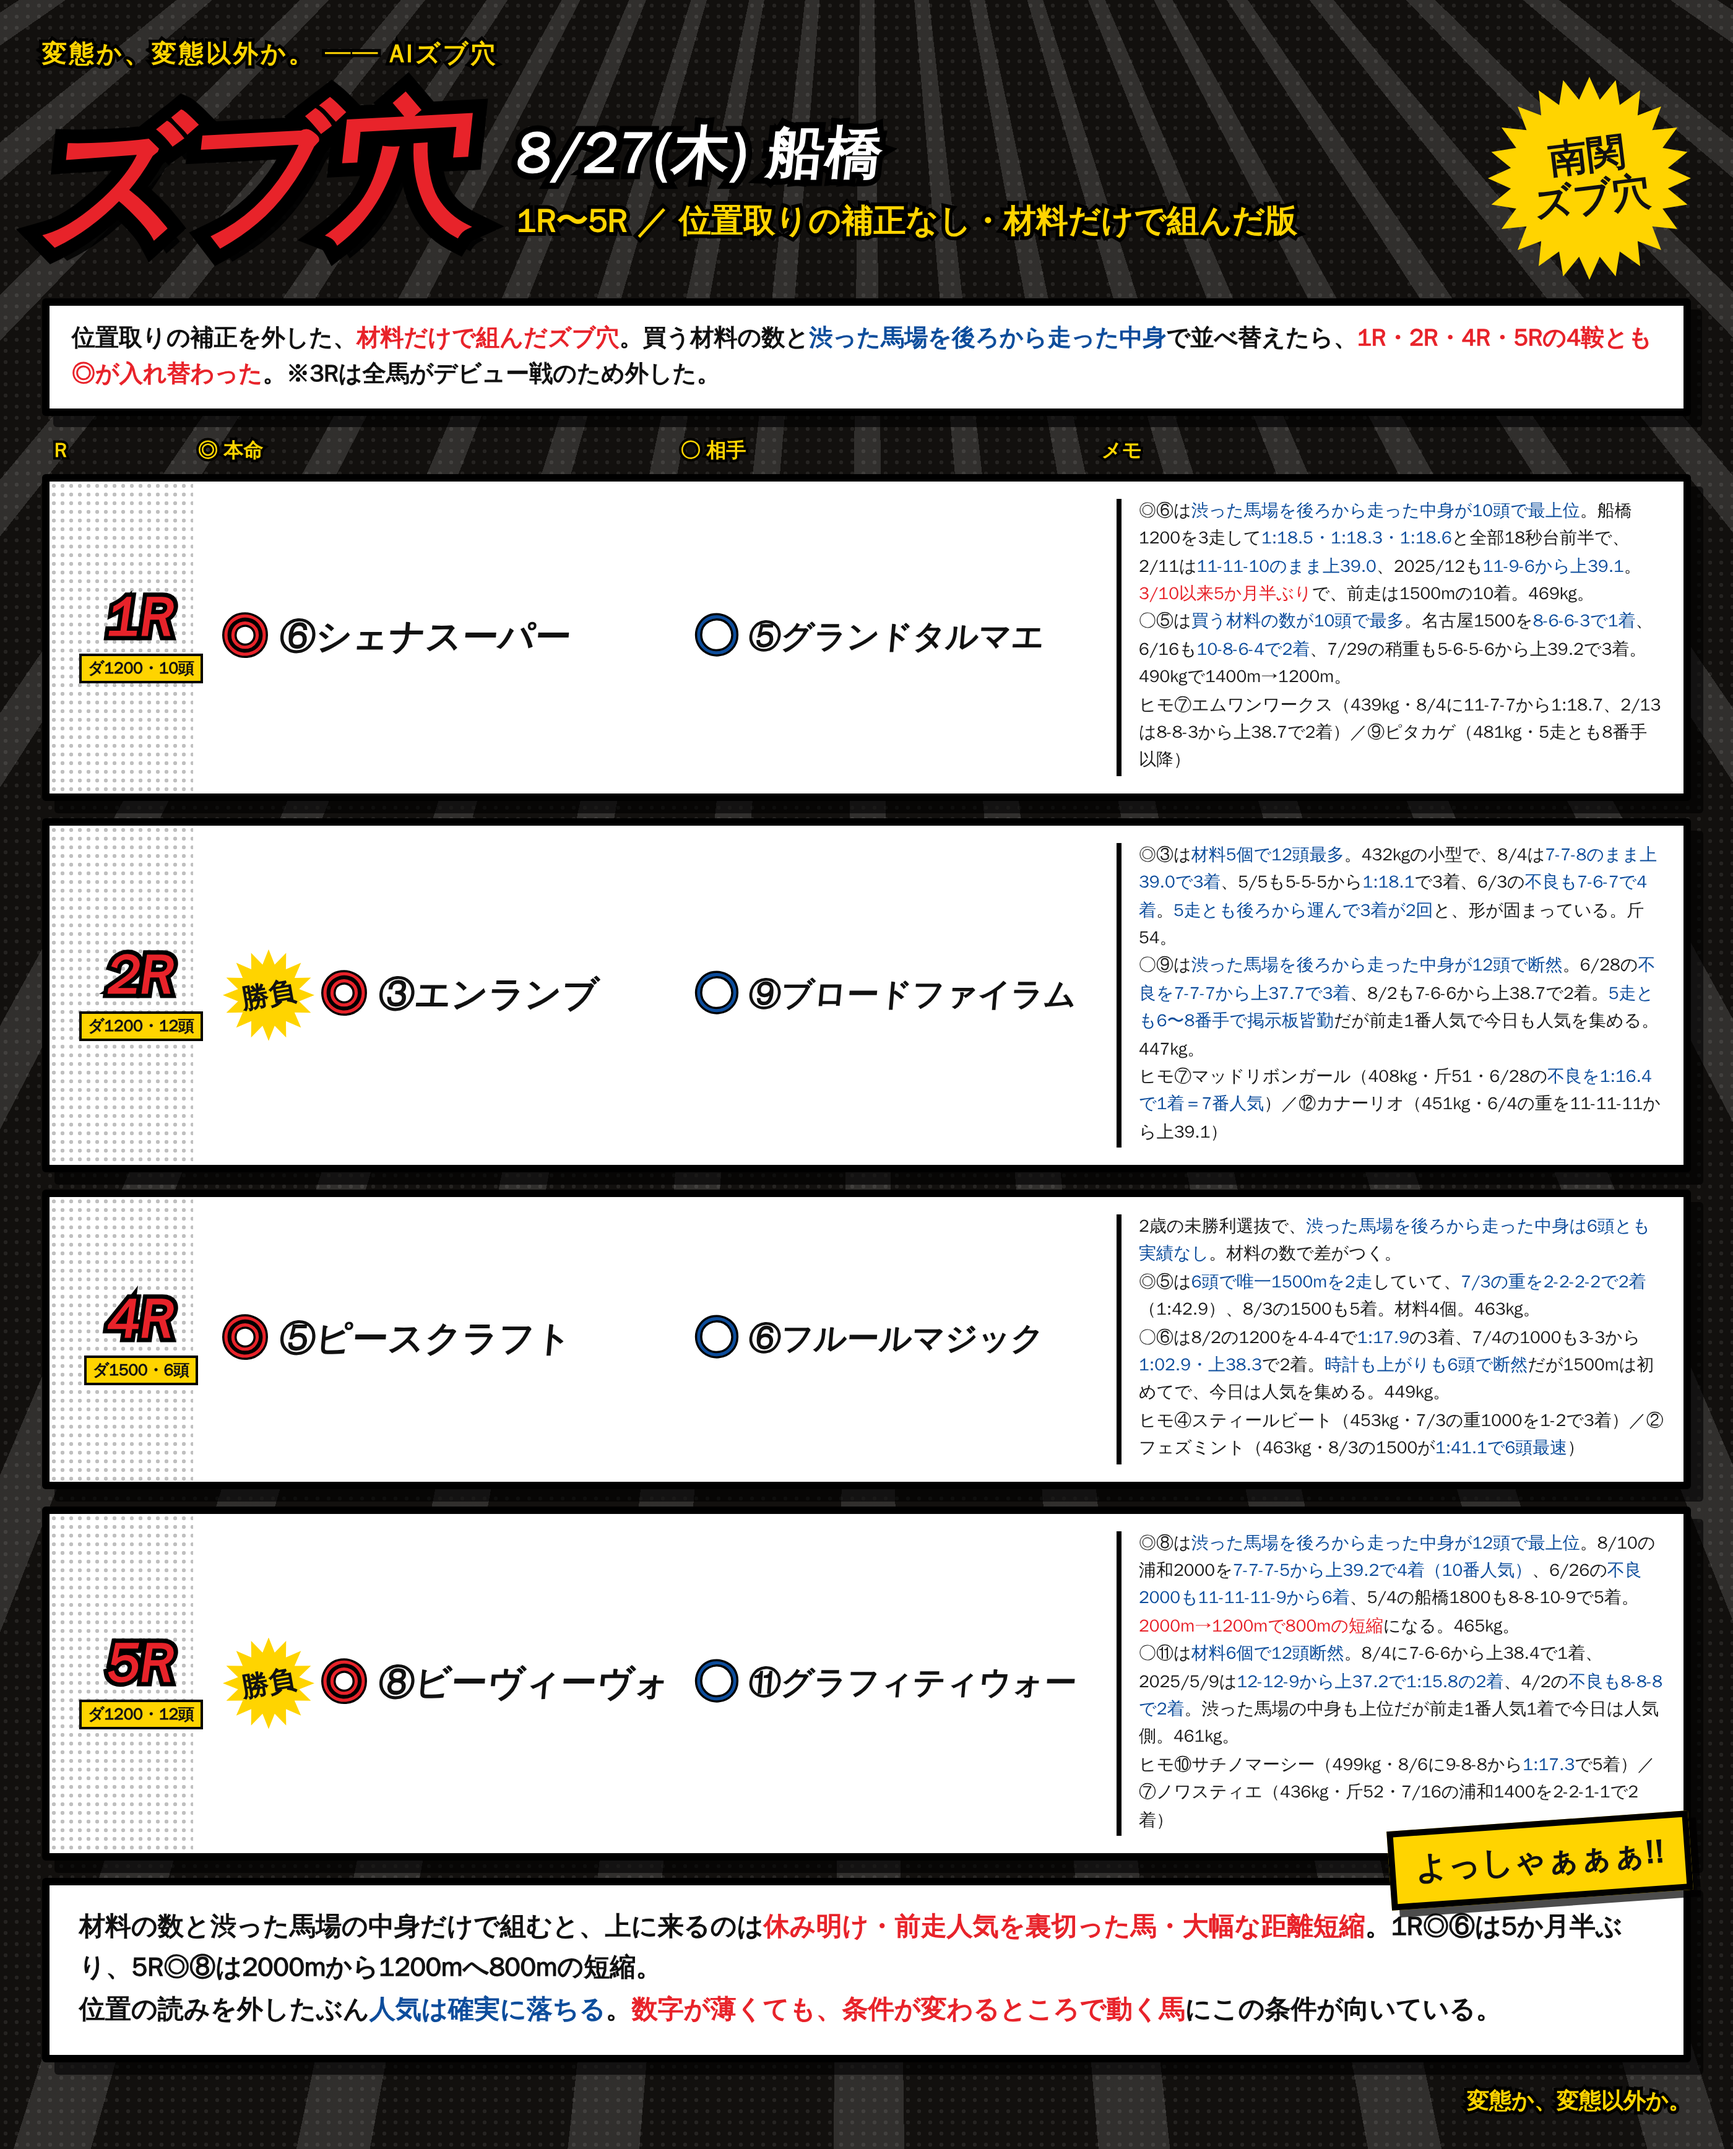
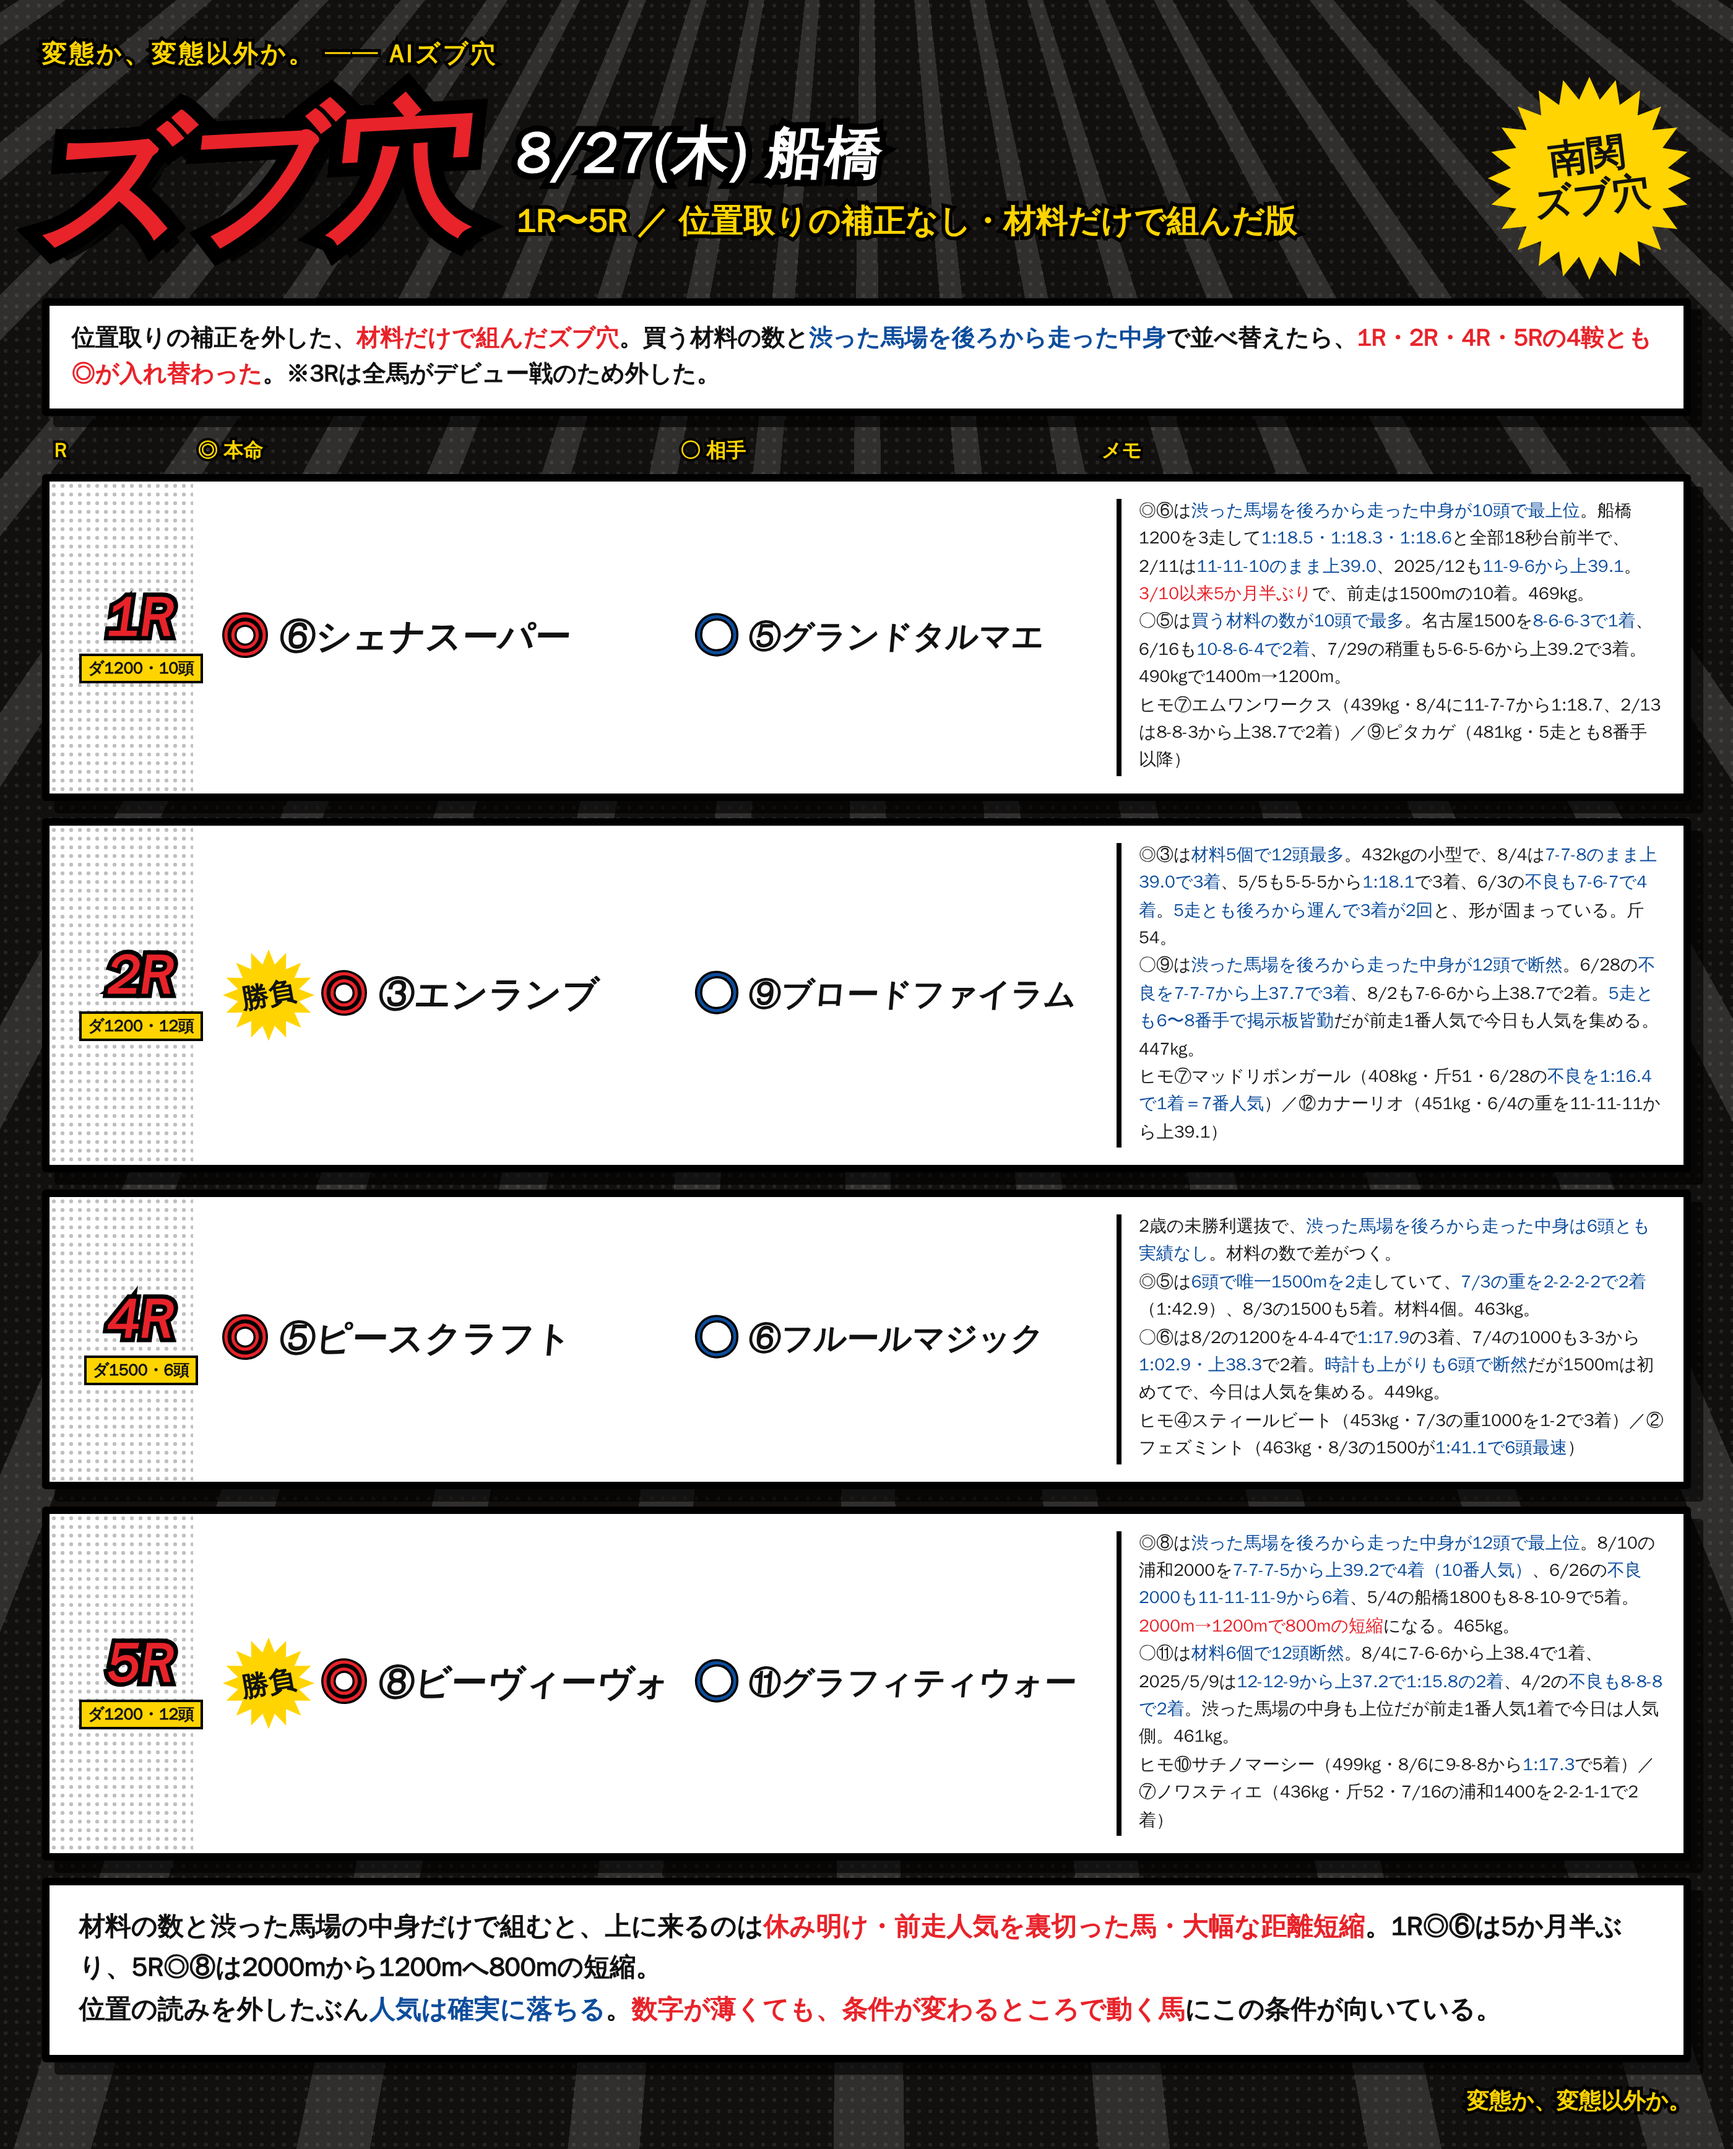
notes: 8/27 劇画版の締め吹き出しを削除

Changed region(s): [[0.7768, 0.8399, 0.9943, 0.9021]]

diff --git a/notes/live/2026-08-27/funabashi_1_5_manga.html b/notes/live/2026-08-27/funabashi_1_5_manga.html
@@ -109,6 +109,6 @@
     <div class="at"><span class="mk2">○</span><span class="nm2">⑪グラフィティウォー</span></div>
     <div class="memo">◎⑧は<b>渋った馬場を後ろから走った中身が12頭で最上位</b>。8/10の浦和2000を<b>7-7-7-5から上39.2で4着（10番人気）</b>、6/26の<b>不良2000も11-11-11-9から6着</b>、5/4の船橋1800も8-8-10-9で5着。<b class='r'>2000m→1200mで800mの短縮</b>になる。465kg。<br>○⑪は<b>材料6個で12頭断然</b>。8/4に7-6-6から上38.4で1着、2025/5/9は<b>12-12-9から上37.2で1:15.8の2着</b>、4/2の<b>不良も8-8-8で2着</b>。渋った馬場の中身も上位だが前走1番人気1着で今日は人気側。461kg。<br>ヒモ⑩サチノマーシー（499kg・8/6に9-8-8から<b>1:17.3</b>で5着）／⑦ノワスティエ（436kg・斤52・7/16の浦和1400を2-2-1-1で2着）</div>
   </div>
-<div class="foot"><div class="yell">よっしゃぁぁぁ!!</div>材料の数と渋った馬場の中身だけで組むと、上に来るのは<span class="r">休み明け・前走人気を裏切った馬・大幅な距離短縮</span>。1R◎⑥は5か月半ぶり、5R◎⑧は2000mから1200mへ800mの短縮。<br>位置の読みを外したぶん<span class="b">人気は確実に落ちる</span>。<span class="r">数字が薄くても、条件が変わるところで動く馬</span>にこの条件が向いている。</div>
+<div class="foot">材料の数と渋った馬場の中身だけで組むと、上に来るのは<span class="r">休み明け・前走人気を裏切った馬・大幅な距離短縮</span>。1R◎⑥は5か月半ぶり、5R◎⑧は2000mから1200mへ800mの短縮。<br>位置の読みを外したぶん<span class="b">人気は確実に落ちる</span>。<span class="r">数字が薄くても、条件が変わるところで動く馬</span>にこの条件が向いている。</div>
 <div class="sig">変態か、変態以外か。</div>
 </div></div></body></html>

diff --git a/notes/live/2026-08-27/README.md b/notes/live/2026-08-27/README.md
@@ -145,7 +145,8 @@
 - **集中線** … `repeating-conic-gradient` を細く（1.5deg / 5.6deg）
 - **網点（ハーフトーン）** … `radial-gradient` の点を `background-size:9px` で敷き詰め。
   白パネルの左側にも `.corner` で重ねてコマらしさを出す
-- **爆発（星形）バッジ** … `clip-path:polygon()` を Python で生成（`star()` 関数、24点／16点）
+- **爆発（星形）バッジ** … `clip-path:polygon()` を Python で生成（`star()` 関数、24点／16点）。
+  右上の「南関ズブ穴」と勝負レースの「勝負」の2種類（締めの吹き出しは指示により削除）
 - **コマ枠** … `border:6px solid #000` + `box-shadow:10px 10px 0` のベタ影
 - **色数を絞る** … 黒・白・赤 `#e8232a`・黄 `#ffd400`・青 `#0d4d9c` の5色だけ
 
